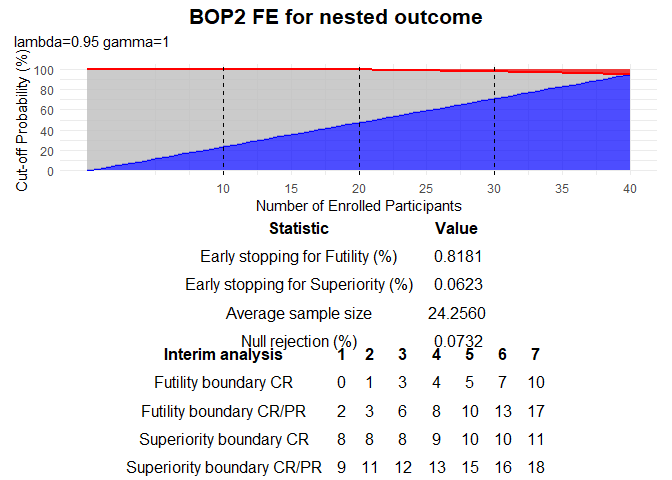
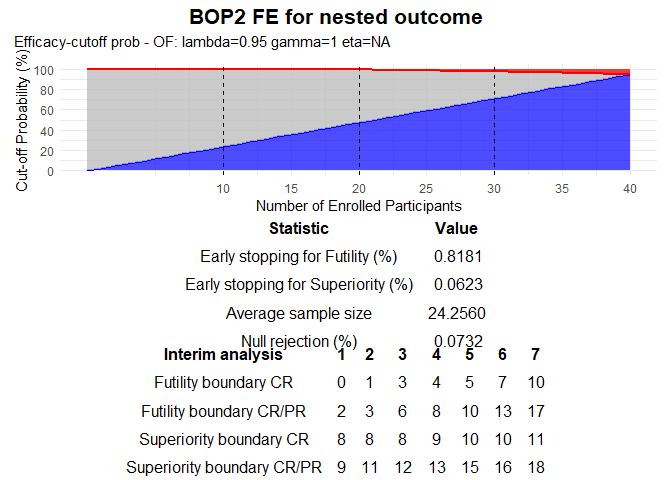
changing the defult method to power

Changed region(s): [[0.0, 0.0625, 0.5938, 0.125]]

diff --git a/README.md b/README.md
@@ -43,7 +43,7 @@ library(BOP2FE)
 ### Binary endpoint
 
 ``` r
-BOP2FE_binary(H0 =0.2, n = c(10,5,5,5,5,5,5), lambda = 0.909, gamma=1, nsim = 10000, seed = 1234)
+BOP2FE_binary(H0 =0.2, n = c(10,5,5,5,5,5,5), lambda = 0.909, gamma=1, method = "OF", nsim = 10000, seed = 1234)
 #> $boundary
 #> # A tibble: 2 × 8
 #>   `Interim analysis`   `1`   `2`   `3`   `4`   `5`   `6`   `7`  
@@ -72,7 +72,7 @@ BOP2FE_binary(H0 =0.2, n = c(10,5,5,5,5,5,5), lambda = 0.909, gamma=1, nsim = 10
 ### Nested endpoint
 
 ``` r
-BOP2FE_nested(CR0 = 0.15, CRPR0 = 0.30, n=c(10,5,5,5,5,5,5), lambda = 0.95, gamma=1, seed = 123)
+BOP2FE_nested(CR0 = 0.15, CRPR0 = 0.30, n=c(10,5,5,5,5,5,5), lambda = 0.95, gamma=1, method = "OF", seed = 123)
 #> $boundary
 #> # A tibble: 4 × 8
 #>   `Interim analysis`         `1`   `2`   `3`   `4`   `5`   `6`   `7`  
@@ -103,7 +103,7 @@ BOP2FE_nested(CR0 = 0.15, CRPR0 = 0.30, n=c(10,5,5,5,5,5,5), lambda = 0.95, gamm
 ### Co-primary endpoint
 
 ``` r
-BOP2FE_coprimary(H0 = c(0.05,0.05,0.15,0.75), n=c(10,5,5,5,5,5,5), lambda = 0.95, gamma=1,seed = 123)
+BOP2FE_coprimary(H0 = c(0.05,0.05,0.15,0.75), n=c(10,5,5,5,5,5,5), lambda = 0.95, gamma=1, method = "OF", seed = 123)
 #> $boundary
 #> # A tibble: 4 × 8
 #>   `Interim analysis`        `1`   `2`   `3`   `4`   `5`   `6`   `7`  
@@ -134,7 +134,7 @@ BOP2FE_coprimary(H0 = c(0.05,0.05,0.15,0.75), n=c(10,5,5,5,5,5,5), lambda = 0.95
 ### Joint endpoint
 
 ``` r
-BOP2FE_jointefftox(H0 = c(0.15, 0.30, 0.15, 0.40), n=c(10,5,5,5,5,5,5), lambda = 0.7, gamma=1, seed = 123)
+BOP2FE_jointefftox(H0 = c(0.15, 0.30, 0.15, 0.40), n=c(10,5,5,5,5,5,5), lambda = 0.7, gamma=1, method = "OF", seed = 123)
 #> $boundary
 #> # A tibble: 4 × 8
 #>   `Interim analysis`            `1`   `2`   `3`   `4`   `5`   `6`   `7`  
